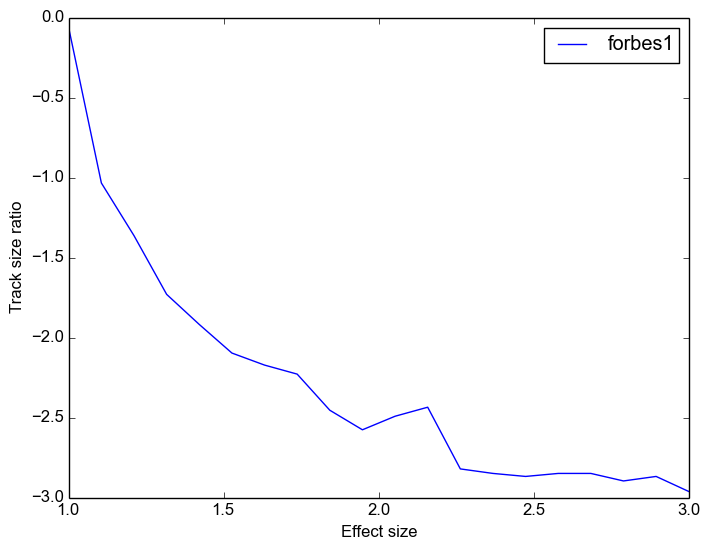
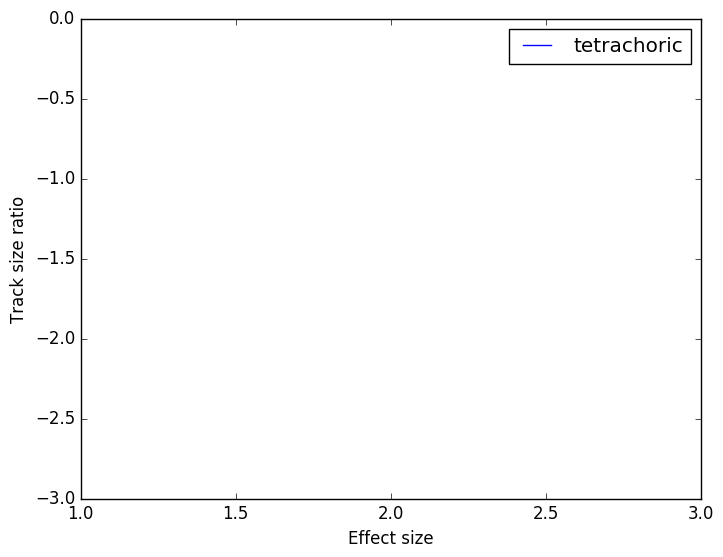
tetrachoric stat

diff --git a/statistic_functions.py b/statistic_functions.py
@@ -84,7 +84,8 @@ statistic_functions = {
                         "t6v2": lambda a,b,c,d,n: (a - (a+b)*(a+c)/n) / sqrt(a*(1-a/(a+c)) + c*(1-b/(d+c))),
                         "aoverb": lambda a,b,c,d,n: (a - b) / (a+b),
                         "aoverbnorm": lambda a,b,c,d,n :  (a / sqrt(a * (1-a/(a+c)))) / (b/ sqrt(b*(1-b/(n-(a+c)))) ),
-                        "onlya": lambda a,b,c,d,n: a / sqrt(a * (1-a/(a+c)))
+                        "onlya": lambda a,b,c,d,n: a / sqrt(a * (1-a/(a+c))),
+                        "tetrachoric": lambda a,b,c,d,n: cos ((pi/2)/(1 + sqrt((b*c)/(a*d))))
                         #"aoverbnorm": lambda a,b,c,d,n : 1.0* (a / np.sqrt((a+c)*(a/n) * (1-a/n))) / (b/ np.sqrt((1-a-c) * (b/n)*(1-b/n)) )
                         #"aoverbnorm": lambda a,b,c,d,n : ((a+c) - (1.0-a-c)) * (a / np.sqrt((a+c)*(a/n) * (1-a/n))) / (b/ np.sqrt((1-a-c) * (b/n)*(1-b/n)) )
                         #"aoverbnorm": lambda a,b,c,d,n : ((a+c) / (1-a-c)) * (a / ((a+c)*(a/n) * (1-a/n))) / (b/((1-a-c) * (b/n)*(1-b/n)) )

diff --git a/simulation_bias.py b/simulation_bias.py
@@ -225,6 +225,9 @@ if __name__=="__main__":
 
     stat_names_in_groups = [["jaccard", "forbes1"]]#, "jaccard"]]
     stat_names_in_groups = [["jaccard"]]#, "jaccard"]]
+    stat_names_in_groups = [["tetrachoric"]]#, "jaccard"]]
+    #stat_names_in_groups = [["forbes1"]]#, "jaccard"]]
+    stat_names_in_groups = [["forbes1"], ["tetrachoric"]]#, "jaccard"]]
 
 
     FOLDER = "mean_and_vars"
@@ -234,8 +237,9 @@ if __name__=="__main__":
     for group in stat_names_in_groups:
         legends = []
         axes = []
-        for k in [1, 2, 4, 8]:
-            ax = simulate_stat_names_group(group, k=k, n_sim = 20)
+        #for k in [1, 2, 4, 8]:
+        for k in [1]:
+            ax = simulate_stat_names_group(group, k=k, n_sim = 500  )
             k_counter += 1
             axes += ax
 

diff --git a/check_all_stats.py b/check_all_stats.py
@@ -288,7 +288,7 @@ if __name__ =="__main__":
 
     set_size = 10 # Global
     FOLDER = "figures7"
-    check_negative_bias(stat_func = "forbes1", n_sims=30, q_prob=1.0e-3, xmin=-3, xmax=0)
+    check_negative_bias(stat_func = "tetrachoric", n_sims=30, q_prob=1.0e-3, xmin=-3, xmax=0)
     #check_negative_bias(stat_func = "jaccard", n_sims=50, q_prob=1.0e-3, xmin=-4, xmax=0)
     #check_negative_bias(stat_func = "jaccard", n_sims=300, q_prob=1.0e-3, xmin=0, xmax=5)
 #    check_pos_bias()
